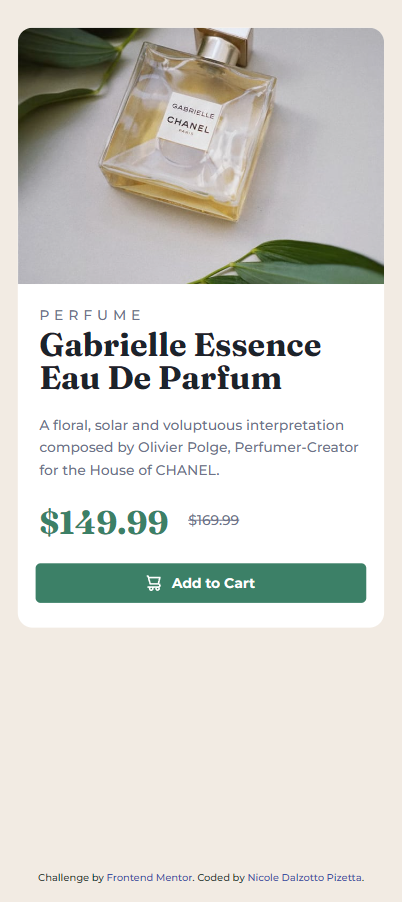
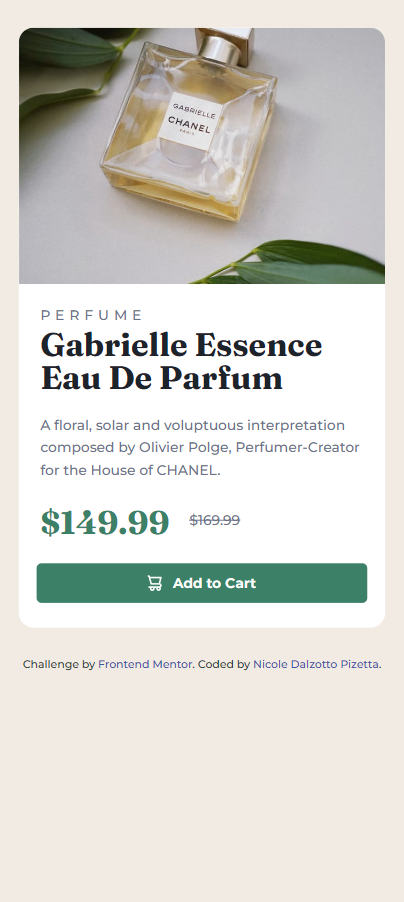
readme and footer

diff --git a/index.html b/index.html
@@ -51,10 +51,13 @@
     </section>
   </main>
 
-  <div class="attribution">
-    Challenge by <a href="https://www.frontendmentor.io?ref=challenge" target="_blank">Frontend Mentor</a>.
-    Coded by <a href="https://github.com/NicoleDPizetta" target="_blank">Nicole Dalzotto Pizetta</a>.
-  </div>
+  <footer>
+    <div class="attribution">
+      Challenge by <a href="https://www.frontendmentor.io?ref=challenge" target="_blank">Frontend Mentor</a>.
+      Coded by <a href="https://github.com/NicoleDPizetta" target="_blank">Nicole Dalzotto Pizetta</a>.
+    </div>
+  </footer>
+
 </body>
 
 </html>

diff --git a/style.css b/style.css
@@ -116,9 +116,6 @@ body {
 }
 
 .attribution {
-    width: 100%;
-    position: absolute;
-    bottom: 20px;
     font-family: 'Montserrat', sans-serif;
     font-weight: 500;
     font-size: 10px;
@@ -135,10 +132,6 @@ body {
     .product {
         position: relative;
         width: 100%;
-    }
-
-    .attribution {
-        bottom: 5px;
     }
 }
 

diff --git a/README.md b/README.md
@@ -1,111 +1,38 @@
-# Frontend Mentor - Product preview card component solution
+#  🍀 Product preview card component solution - Frontend Mentor Challenge
 
-This is a solution to the [Product preview card component challenge on Frontend Mentor](https://www.frontendmentor.io/challenges/product-preview-card-component-GO7UmttRfa). Frontend Mentor challenges help you improve your coding skills by building realistic projects. 
+BR: Esta é uma solução para o [Product preview card component challenge on Frontend Mentor](https://www.frontendmentor.io/challenges/product-preview-card-component-GO7UmttRfa). Os desafios do Frontend Mentor ajudam você a melhorar suas habilidades de código criando projetos realistas.
+O desafio é construir esse componente Product preview card e deixá-lo o mais próximo possível do design.
 
-## Table of contents
+EN: This is a solution to the [Product preview card component challenge on Frontend Mentor](https://www.frontendmentor.io/challenges/product-preview-card-component-GO7UmttRfa). Frontend Mentor challenges help you improve your coding skills by building realistic projects. 
+The challenge is to build out this Product preview card component and get it looking as close to the design as possible.
 
-- [Overview](#overview)
-  - [The challenge](#the-challenge)
-  - [Screenshot](#screenshot)
-  - [Links](#links)
-- [My process](#my-process)
-  - [Built with](#built-with)
-  - [What I learned](#what-i-learned)
-  - [Continued development](#continued-development)
-  - [Useful resources](#useful-resources)
-- [Author](#author)
-- [Acknowledgments](#acknowledgments)
+## 🍀 Screenshots
+#### Desktop 
+![](./screenshots/desktop.png) 
 
-**Note: Delete this note and update the table of contents based on what sections you keep.**
+#### Mobile - iPhoneSE
+![](./screenshots/mobile-iPhoneSE.png) 
 
-## Overview
+#### Mobile - Samsung S20 Ultra
+![](./screenshots/mobile-SamsungS20Ultra.png)
 
-### The challenge
+## 🍀 Preview site
+[Clique aqui | Click here]()
 
-Users should be able to:
-
-- View the optimal layout depending on their device's screen size
-- See hover and focus states for interactive elements
-
-### Screenshot
-
-![](./screenshot.jpg)
-
-Add a screenshot of your solution. The easiest way to do this is to use Firefox to view your project, right-click the page and select "Take a Screenshot". You can choose either a full-height screenshot or a cropped one based on how long the page is. If it's very long, it might be best to crop it.
-
-Alternatively, you can use a tool like [FireShot](https://getfireshot.com/) to take the screenshot. FireShot has a free option, so you don't need to purchase it. 
-
-Then crop/optimize/edit your image however you like, add it to your project, and update the file path in the image above.
-
-**Note: Delete this note and the paragraphs above when you add your screenshot. If you prefer not to add a screenshot, feel free to remove this entire section.**
-
-### Links
-
-- Solution URL: [Add solution URL here](https://your-solution-url.com)
-- Live Site URL: [Add live site URL here](https://your-live-site-url.com)
-
-## My process
-
-### Built with
-
+## 🍀 Tecnologias usadas | Technologies used
 - Semantic HTML5 markup
 - CSS custom properties
 - Flexbox
 - CSS Grid
-- Mobile-first workflow
-- [React](https://reactjs.org/) - JS library
-- [Next.js](https://nextjs.org/) - React framework
-- [Styled Components](https://styled-components.com/) - For styles
+- Mobile first
 
-**Note: These are just examples. Delete this note and replace the list above with your own choices**
 
-### What I learned
+## 🍀 Autor | Author
+- GitHub - [@NicoleDPizetta](https://github.com/NicoleDPizetta)
+- Frontend Mentor - [@NicoleDPizetta](https://www.frontendmentor.io/profile/NicoleDPizetta)
+- LinkedIn - [@nicoledpizetta](https://www.linkedin.com/in/nicoledpizetta/)
 
-Use this section to recap over some of your major learnings while working through this project. Writing these out and providing code samples of areas you want to highlight is a great way to reinforce your own knowledge.
+---------------
 
-To see how you can add code snippets, see below:
 
-```html
-<h1>Some HTML code I'm proud of</h1>
-```
-```css
-.proud-of-this-css {
-  color: papayawhip;
-}
-```
-```js
-const proudOfThisFunc = () => {
-  console.log('🎉')
-}
-```
-
-If you want more help with writing markdown, we'd recommend checking out [The Markdown Guide](https://www.markdownguide.org/) to learn more.
-
-**Note: Delete this note and the content within this section and replace with your own learnings.**
-
-### Continued development
-
-Use this section to outline areas that you want to continue focusing on in future projects. These could be concepts you're still not completely comfortable with or techniques you found useful that you want to refine and perfect.
-
-**Note: Delete this note and the content within this section and replace with your own plans for continued development.**
-
-### Useful resources
-
-- [Example resource 1](https://www.example.com) - This helped me for XYZ reason. I really liked this pattern and will use it going forward.
-- [Example resource 2](https://www.example.com) - This is an amazing article which helped me finally understand XYZ. I'd recommend it to anyone still learning this concept.
-
-**Note: Delete this note and replace the list above with resources that helped you during the challenge. These could come in handy for anyone viewing your solution or for yourself when you look back on this project in the future.**
-
-## Author
-
-- Website - [Add your name here](https://www.your-site.com)
-- Frontend Mentor - [@yourusername](https://www.frontendmentor.io/profile/yourusername)
-- Twitter - [@yourusername](https://www.twitter.com/yourusername)
-
-**Note: Delete this note and add/remove/edit lines above based on what links you'd like to share.**
-
-## Acknowledgments
-
-This is where you can give a hat tip to anyone who helped you out on this project. Perhaps you worked in a team or got some inspiration from someone else's solution. This is the perfect place to give them some credit.
-
-**Note: Delete this note and edit this section's content as necessary. If you completed this challenge by yourself, feel free to delete this section entirely.**
+### <p align="center">💖 Obrigada por ler até aqui | Thanks for reading this far 💖</p> 
